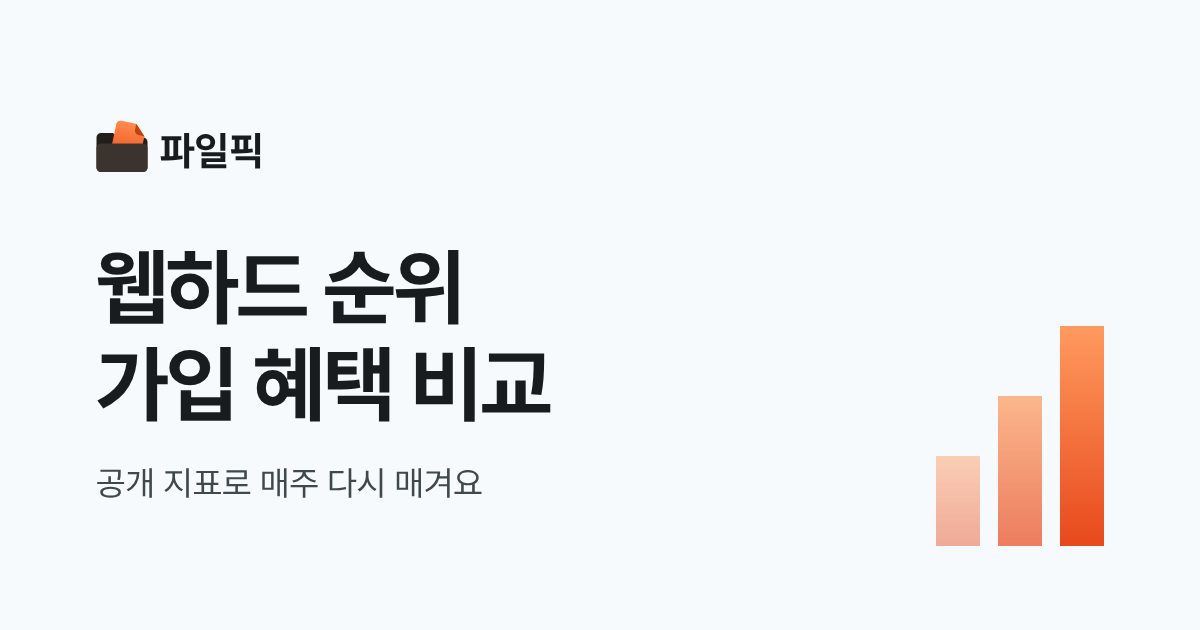
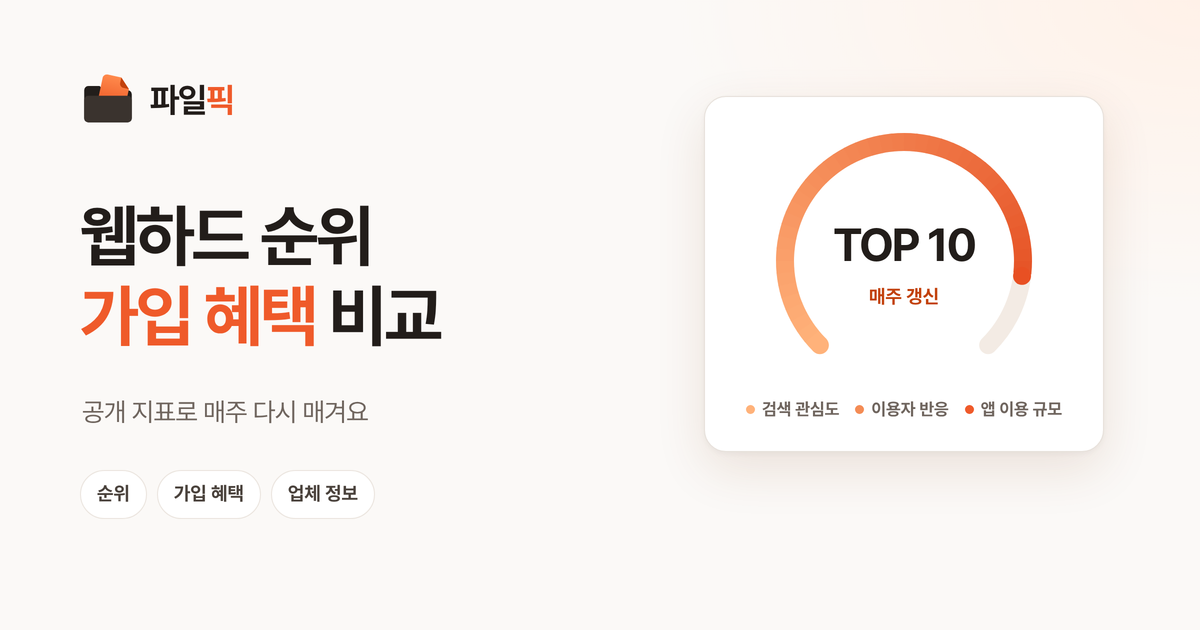
화면: 총점 게이지 그라디언트를 호를 따라 이어지게, 공유 이미지 새로 제작

diff --git a/src/site.css b/src/site.css
@@ -588,6 +588,15 @@ a:focus-visible {
   stroke-linecap: round;
 }
 
+.gauge__fill {
+  stroke: #ffffff;
+}
+
+.gauge__tone {
+  fill: none;
+  stroke-width: 5;
+}
+
 .gauge__track {
   stroke: var(--track);
 }

diff --git a/CLAUDE.md b/CLAUDE.md
@@ -42,7 +42,7 @@
 ## 디자인 변수 (`:root`)
 
 - 기존 파일픽 디자인(흰 카드 목록, 남색 버튼, 오른쪽 사이드바, 카드형 안내 페이지)을 따른다. 새 요소는 총점 게이지, 통계 줄의 남은 시간, 사이드바의 집계에 쓴 데이터, 순위표 아래 혜택 조건 칩, 순위표 줄의 혜택 칩(가입 혜택·기타 혜택 두 줄, 가입은 `--chip-bg`·`--chip-text`, 기타는 회색 바탕, 모바일은 첫 줄 칩만), 로고는 가로세로 비율로 넓이를 맞춰 크기를 통일(`LOGO_AREA`), 사이트 확인(남색 채움)·상세 정보(연한 회색 채움) 같은 크기 두 버튼(둘 다 › 아이콘)(누르는 영역 44px 안에 작은 모양), 게이지 아래 '총점' 라벨, 순위 검증 가이드의 다른 웹하드 캐러셀(`src/rail.js`, 스크립트가 꺼져도 옆으로 넘겨 볼 수 있음), 업체 페이지(흰 바탕에 연한 회색 카드 `--card`, 위에 상자 없이 로고(원본보다 키우지 않음), 그 아래 업체 이름, 그 아래 서비스 소개 카드와 순위·총점·사이트 확인 카드를 본문·사이드바 열에 맞춰 한 줄로, 그 아래 기본 정보·혜택 정보·요약 지표·업체 설명, 맨 아래 다른 웹하드 캐러셀)다. 순위표 설명 한 줄은 두 줄까지만 보인다. 업체 설명은 데이터로 만든 문장만 쓴다. 공개 순위 밖 업체에는 순위 문구(○위 밖, 집계 전 등)를 쓰지 않는다. 통계 줄은 본문 전체 폭(순위표 왼쪽 끝~사이드바 오른쪽 끝)에 맞춘다. 화면 폭 350px 아래로는 더 줄이지 않고 350px 화면을 그대로 둔다(옆으로 넘겨 봄).
-- 색: 주황 키 컬러 하나와 따뜻한 무채색으로 맞춘다(파랑 계열은 쓰지 않는다). 그라디언트는 총점 게이지·로고 마크의 파일·공유 이미지 막대에만 연하게(밝은 주황→주황) 쓴다. `--accent` 키 컬러(로고 마크·로고 "픽"·1~3위 순위 숫자·총점 게이지·포커스 테두리·탭 아이콘·공유 이미지), `--accent-text` 작은 주황 글자(현재 메뉴·선택한 칩·라벨·남은 시간), `--navy` 버튼·안내 카드(따뜻한 짙은 회색), `--bg` 바탕, `--line`·`--line-soft` 선, `--text`·`--muted` 글자, `--logo-bg` 로고 상자, `--up`·`--down` 변동, `--guide-text`·`--guide-link` 안내 카드 글자, `--track` 게이지 바탕, `--pill` 모바일 메뉴, `--chip-bg`·`--chip-text` 가입 혜택 칩.
+- 색: 주황 키 컬러 하나와 따뜻한 무채색으로 맞춘다(파랑 계열은 쓰지 않는다). 그라디언트는 총점 게이지(호를 따라 밝은 주황→짙은 주황)·로고 마크의 파일·공유 이미지에만 연하게 쓴다. `--accent` 키 컬러(로고 마크·로고 "픽"·1~3위 순위 숫자·총점 게이지·포커스 테두리·탭 아이콘·공유 이미지), `--accent-text` 작은 주황 글자(현재 메뉴·선택한 칩·라벨·남은 시간), `--navy` 버튼·안내 카드(따뜻한 짙은 회색), `--bg` 바탕, `--line`·`--line-soft` 선, `--text`·`--muted` 글자, `--logo-bg` 로고 상자, `--up`·`--down` 변동, `--guide-text`·`--guide-link` 안내 카드 글자, `--track` 게이지 바탕, `--pill` 모바일 메뉴, `--chip-bg`·`--chip-text` 가입 혜택 칩.
 - 모서리 `--radius-panel`·`--radius-box`·`--radius-btn`, 머리글 높이 `--head-h`.
 - 가리킴·포커스는 덧칠(어두운 글자 위 8%/10%, 남색 위 흰색 10%)만 쓴다. 색·크기·위치를 바꾸지 않는다.
 - CSS 클래스는 `블록__요소--변형` 형식.
